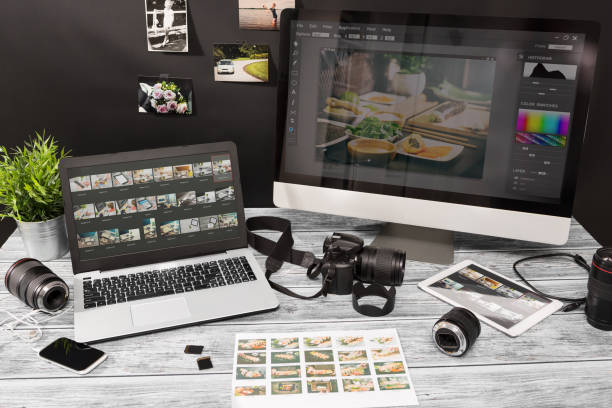
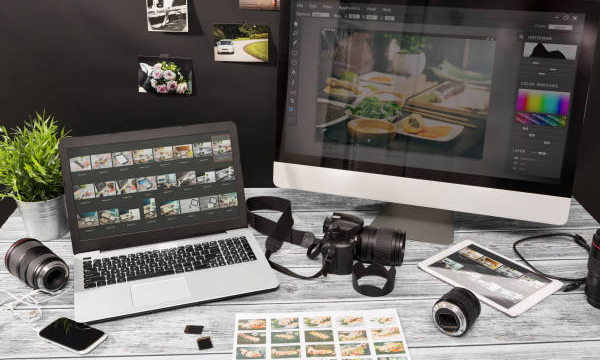
chore: creator pages

diff --git a/app/creator/layout.tsx b/app/creator/layout.tsx
@@ -1,0 +1,89 @@
+import { createClient } from '@/utils/supabase/server'
+import { redirect } from 'next/navigation'
+import DashboardBreadcrumb from '@/components/modules/DashboardBreadcrumb'
+import Sidenav from '@/components/modules/Sidenav'
+import {
+  ClapperboardIcon,
+  HandshakeIcon,
+  LayoutDashboardIcon,
+  ShoppingBag
+} from 'lucide-react'
+import User from '@/components/modules/User'
+import { getUser } from '@/utils/supabase/queries'
+import { SidebarProvider, SidebarTrigger } from '@/components/ui/sidebar'
+import LogoBlue from '@/components/icons/LogoBlue'
+
+export default async function CreatorLayout({
+  children
+}: {
+  children: React.ReactNode
+}) {
+  const supabase = createClient()
+  const user = await getUser(supabase)
+
+  if (!user || user.type !== 'creator') {
+    return redirect('/')
+  }
+
+  const navs = [
+    {
+      icon: <LayoutDashboardIcon />,
+      name: 'Dashboard',
+      link: '/creator/dashboard'
+    },
+    {
+      icon: <ShoppingBag />,
+      name: 'Products',
+      link: '/creator/products'
+    },
+    {
+      icon: <ClapperboardIcon />,
+      name: 'Creators',
+      link: '/creator/creators'
+    },
+    {
+      icon: <HandshakeIcon />,
+      name: 'Affiliates',
+      link: '/creator/affiliates'
+    }
+  ]
+
+  const settings = [
+    {
+      name: 'Connect TikTok',
+      link: '/creator/auth-tiktok'
+    },
+    {
+      name: 'Manage Subscription',
+      link: '/creator/subscription'
+    },
+    {
+      name: 'Manange Account',
+      link: '/creator/account'
+    }
+  ]
+
+  return (
+    <main className="flex min-h-screen w-full flex-row bg-orange-50/40">
+      <SidebarProvider>
+        <Sidenav navs={navs} settings={settings} />
+
+        <main className="w-full overflow-auto">
+          <div className="flex md:hidden w-full justify-between p-4 bg-orange-50 shadow">
+            <LogoBlue />
+            <SidebarTrigger />
+          </div>
+
+          <div className="p-2.5">
+            <div className="bg-white shadow-sm px-4 py-3 flex justify-between items-center rounded-md border">
+              <DashboardBreadcrumb />
+              <User user={user} />
+            </div>
+
+            <div className="py-8">{children}</div>
+          </div>
+        </main>
+      </SidebarProvider>
+    </main>
+  )
+}

diff --git a/app/creator/auth-tiktok/page.tsx b/app/creator/auth-tiktok/page.tsx
@@ -1,0 +1,50 @@
+import { Button } from '@/components/ui/button'
+import { Card, CardContent, CardHeader } from '@/components/ui/card'
+import { getCreator } from '@/utils/supabase/queries'
+import { createClient } from '@/utils/supabase/server'
+import { format } from 'date-fns'
+import Link from 'next/link'
+
+export default async function AuthTiktok() {
+  const supabase = createClient()
+  const creator = await getCreator(supabase)
+
+  return (
+    <div className="container mx-auto p-8">
+      <h2 className="text-3xl font-bold text-center mb-8">
+        Manage Account Settings
+      </h2>
+
+      <div className="text-center">
+        {creator && (
+          <Card className="max-w-md mx-auto mb-8 text-left">
+            <CardHeader>
+              <h3 className="text-xl font-semibold">Connection Details</h3>
+            </CardHeader>
+            <CardContent>
+              <h4 className="font-medium">
+                Creator Name:{' '}
+                <span className="text-primary">{creator.creator_name}</span>
+              </h4>
+              <h4 className="font-medium">
+                Connected at:{' '}
+                <span className="text-primary">
+                  {format(creator.created_at, 'PPP')}
+                </span>
+              </h4>
+            </CardContent>
+          </Card>
+        )}
+        <Button asChild>
+          <Link
+            href={`https://services.tiktokshops.us/open/authorize?service_id=${process.env.NEXT_PUBLIC_TIKTOK_SELLER_SERVICE_ID}`}
+          >
+            {creator
+              ? 'Re-authorize your TikTok Seller Account'
+              : 'Authorize TikTok Seller Account'}
+          </Link>
+        </Button>
+      </div>
+    </div>
+  )
+}

diff --git a/app/creator/auth-tiktok/token/route.ts b/app/creator/auth-tiktok/token/route.ts
@@ -1,0 +1,39 @@
+import { NextResponse } from 'next/server'
+import { NextRequest } from 'next/server'
+import { getErrorRedirect, getStatusRedirect } from '@/utils/helpers'
+import { generateAccessToken } from '@/utils/tiktok/seller-auth'
+
+export async function GET(request: NextRequest) {
+  const requestUrl = new URL(request.url)
+  const auth_code = requestUrl.searchParams.get('code')
+
+  if (!auth_code) {
+    return NextResponse.redirect(
+      getErrorRedirect(
+        `${requestUrl.origin}/seller/auth-tiktok`,
+        'OAuth Error',
+        "Sorry, we weren't able to validate the authentication code. Please try again!"
+      )
+    )
+  }
+
+  const authData = await generateAccessToken(auth_code)
+
+  if (!authData) {
+    return NextResponse.redirect(
+      getErrorRedirect(
+        `${requestUrl.origin}/seller/auth-tiktok`,
+        'OAuth Error',
+        "Sorry, we weren't able to authorize your account. Please try again!"
+      )
+    )
+  }
+
+  return NextResponse.redirect(
+    getStatusRedirect(
+      `${requestUrl.origin}/seller/dashboard`,
+      'Success!',
+      `You are now connected to ${authData.seller_name}.`
+    )
+  )
+}

diff --git a/app/creator/account/page.tsx b/app/creator/account/page.tsx
@@ -1,0 +1,28 @@
+import EmailForm from '@/components/modules/AccountForms/EmailForm'
+import ProfileForm from '@/components/modules/AccountForms/ProfileForm'
+import UpdatePassword from '@/components/modules/AuthForms/UpdatePassword'
+import { getRedirectMethod } from '@/utils/auth-helpers/settings'
+import { getUser } from '@/utils/supabase/queries'
+import { createClient } from '@/utils/supabase/server'
+
+export default async function AuthTiktok() {
+  const supabase = createClient()
+  const user = await getUser(supabase)
+  const redirectMethod = getRedirectMethod()
+
+  return (
+    <div className="container mx-auto p-8">
+      <h1 className="text-3xl font-bold text-center mb-8">
+        Manage Account Settings
+      </h1>
+
+      <div className="max-w-md mx-auto">
+        <EmailForm userEmail={user.auth.email} />
+      </div>
+
+      <div className="max-w-md mx-auto">
+        <UpdatePassword redirectMethod={redirectMethod} />
+      </div>
+    </div>
+  )
+}

diff --git a/app/creator/subscription/page.tsx b/app/creator/subscription/page.tsx
@@ -1,0 +1,26 @@
+import CustomerPortalForm from '@/components/modules/AccountForms/CustomerPortalForm'
+import StripePricingTable from '@/components/stripe/StripeTable'
+import { getSubscription, getUser } from '@/utils/supabase/queries'
+import { createClient } from '@/utils/supabase/server'
+
+export default async function AuthTiktok() {
+  const supabase = createClient()
+  const user = await getUser(supabase)
+  const subscription = await getSubscription(supabase)
+
+  return (
+    <div className="container mx-auto p-8">
+      <h2 className="text-3xl font-bold text-center mb-8">Pricing Plan</h2>
+      <p className="text-center max-w-2xl mx-auto mb-12">
+        Transparent & Competitive. Stay tuned for our upcoming pricing models
+        that promise value and transparency.
+      </p>
+
+      {subscription ? (
+        <CustomerPortalForm return_url="/seller/subscription" />
+      ) : (
+        <StripePricingTable user={user} />
+      )}
+    </div>
+  )
+}

diff --git a/app/creator/(private)/layout.tsx b/app/creator/(private)/layout.tsx
@@ -1,0 +1,25 @@
+import { createClient } from '@/utils/supabase/server'
+import { redirect } from 'next/navigation'
+import { getSeller, getSubscription } from '@/utils/supabase/queries'
+
+export default async function SellerPrivateLayout({
+  children
+}: {
+  children: React.ReactNode
+}) {
+  const supabase = createClient()
+  const [subscription, seller] = await Promise.all([
+    getSubscription(supabase),
+    getSeller(supabase)
+  ])
+
+  if (!seller) {
+    return redirect('/seller/auth-tiktok')
+  }
+
+  if (!subscription) {
+    return redirect('/seller/subscription')
+  }
+
+  return children
+}

diff --git a/utils/supabase/queries.ts b/utils/supabase/queries.ts
@@ -55,3 +55,24 @@ export const getSeller = cache(async (supabase: SupabaseClient) => {
 
   return seller
 })
+
+export const getCreator = cache(async (supabase: SupabaseClient) => {
+  const user = await getUser(supabase)
+
+  if (!user) {
+    return null
+  }
+
+  const { data: creator, error } = await supabase
+    .from('creators')
+    .select('*')
+    .eq('user_id', user.id)
+    .single()
+
+  if (error) {
+    console.error('Failed to fetch creator auth:', error)
+    return null
+  }
+
+  return creator
+})

diff --git a/app/creator/(private)/creators/page.tsx b/app/creator/(private)/creators/page.tsx
@@ -1,0 +1,5 @@
+import SellerCreators from '@/components/modules/Seller/Creators'
+
+export default function CreatorsPage() {
+  return <SellerCreators />
+}

diff --git a/app/creator/(private)/affiliates/page.tsx b/app/creator/(private)/affiliates/page.tsx
@@ -1,0 +1,3 @@
+export default async function Affiliates() {
+  return <div>Seller Dashboard</div>
+}

diff --git a/app/creator/(private)/dashboard/page.tsx b/app/creator/(private)/dashboard/page.tsx
@@ -1,0 +1,3 @@
+export default async function Dashboard() {
+  return <div>Seller Dashboard</div>
+}

diff --git a/app/creator/(private)/products/page.tsx b/app/creator/(private)/products/page.tsx
@@ -1,0 +1,3 @@
+export default async function Products() {
+  return <div>Seller Dashboard</div>
+}
